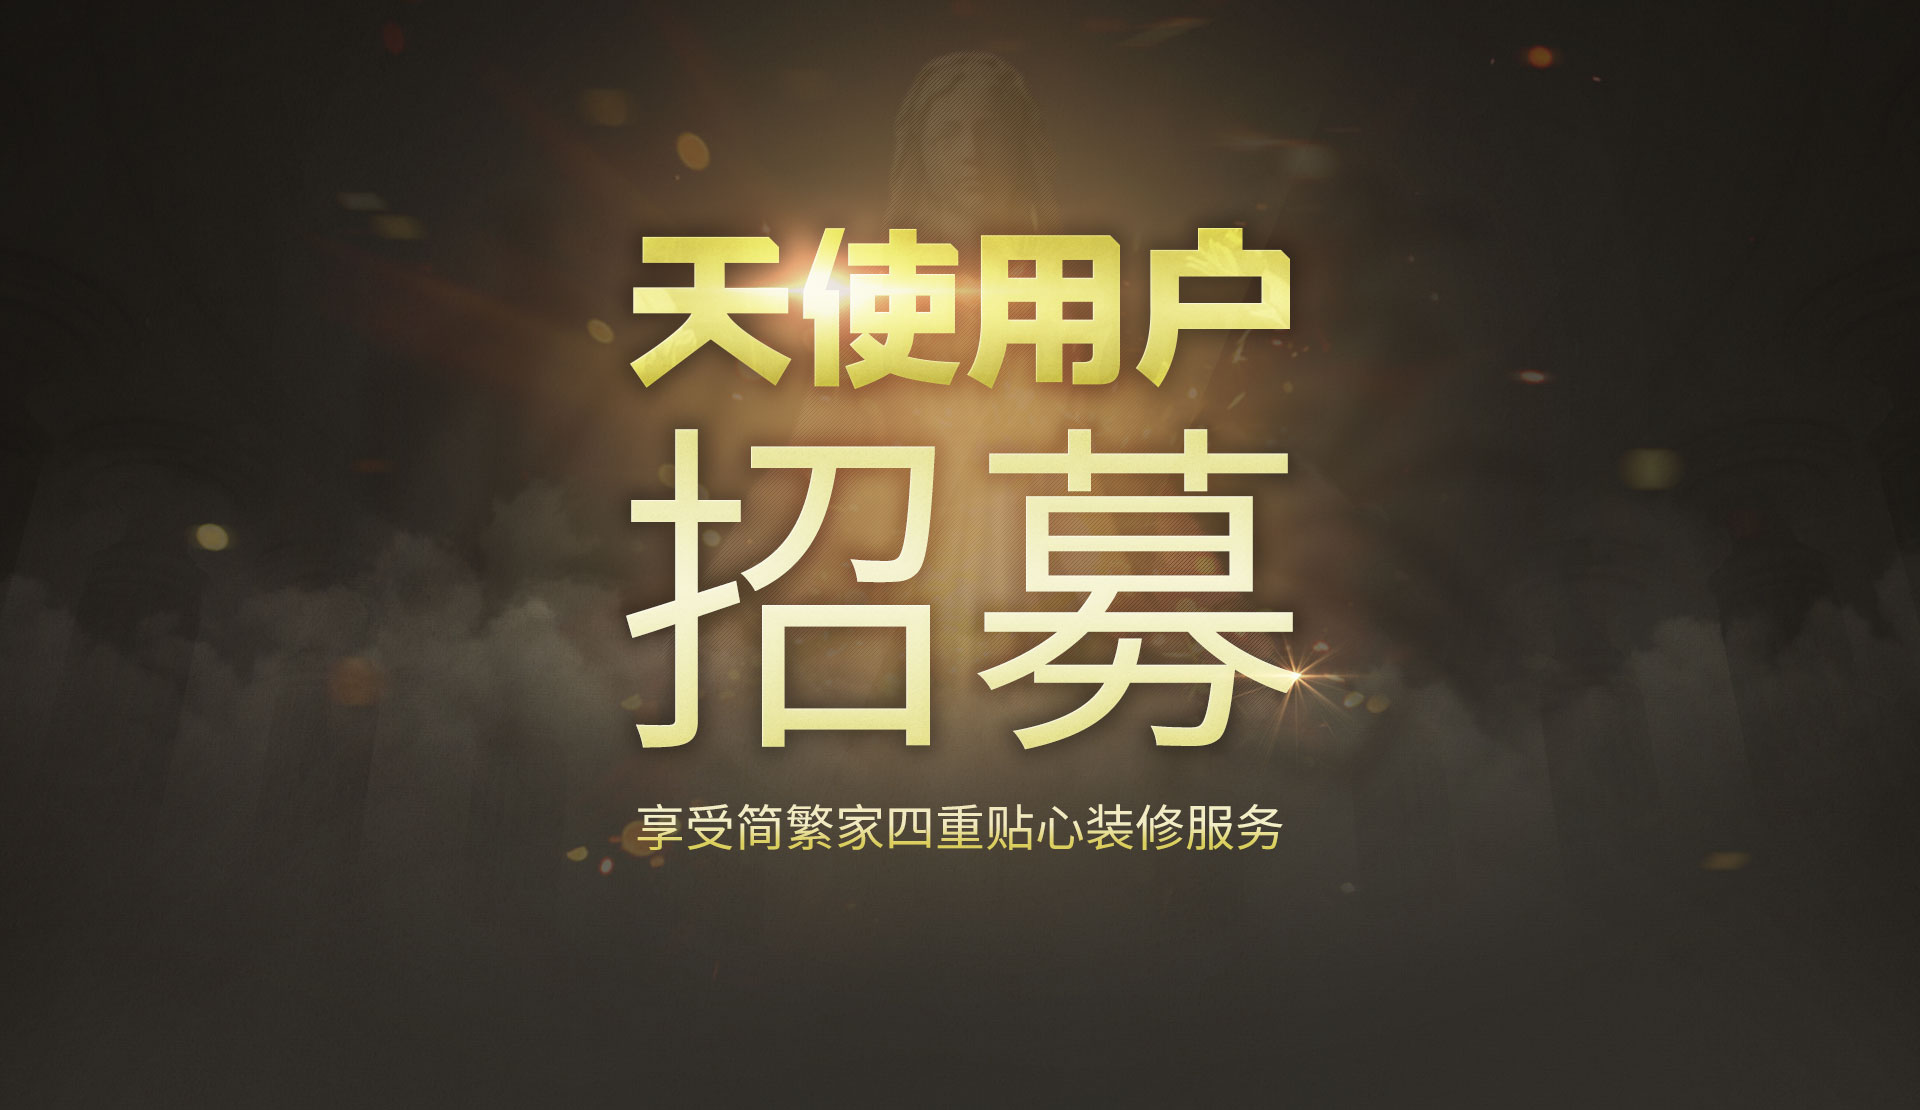
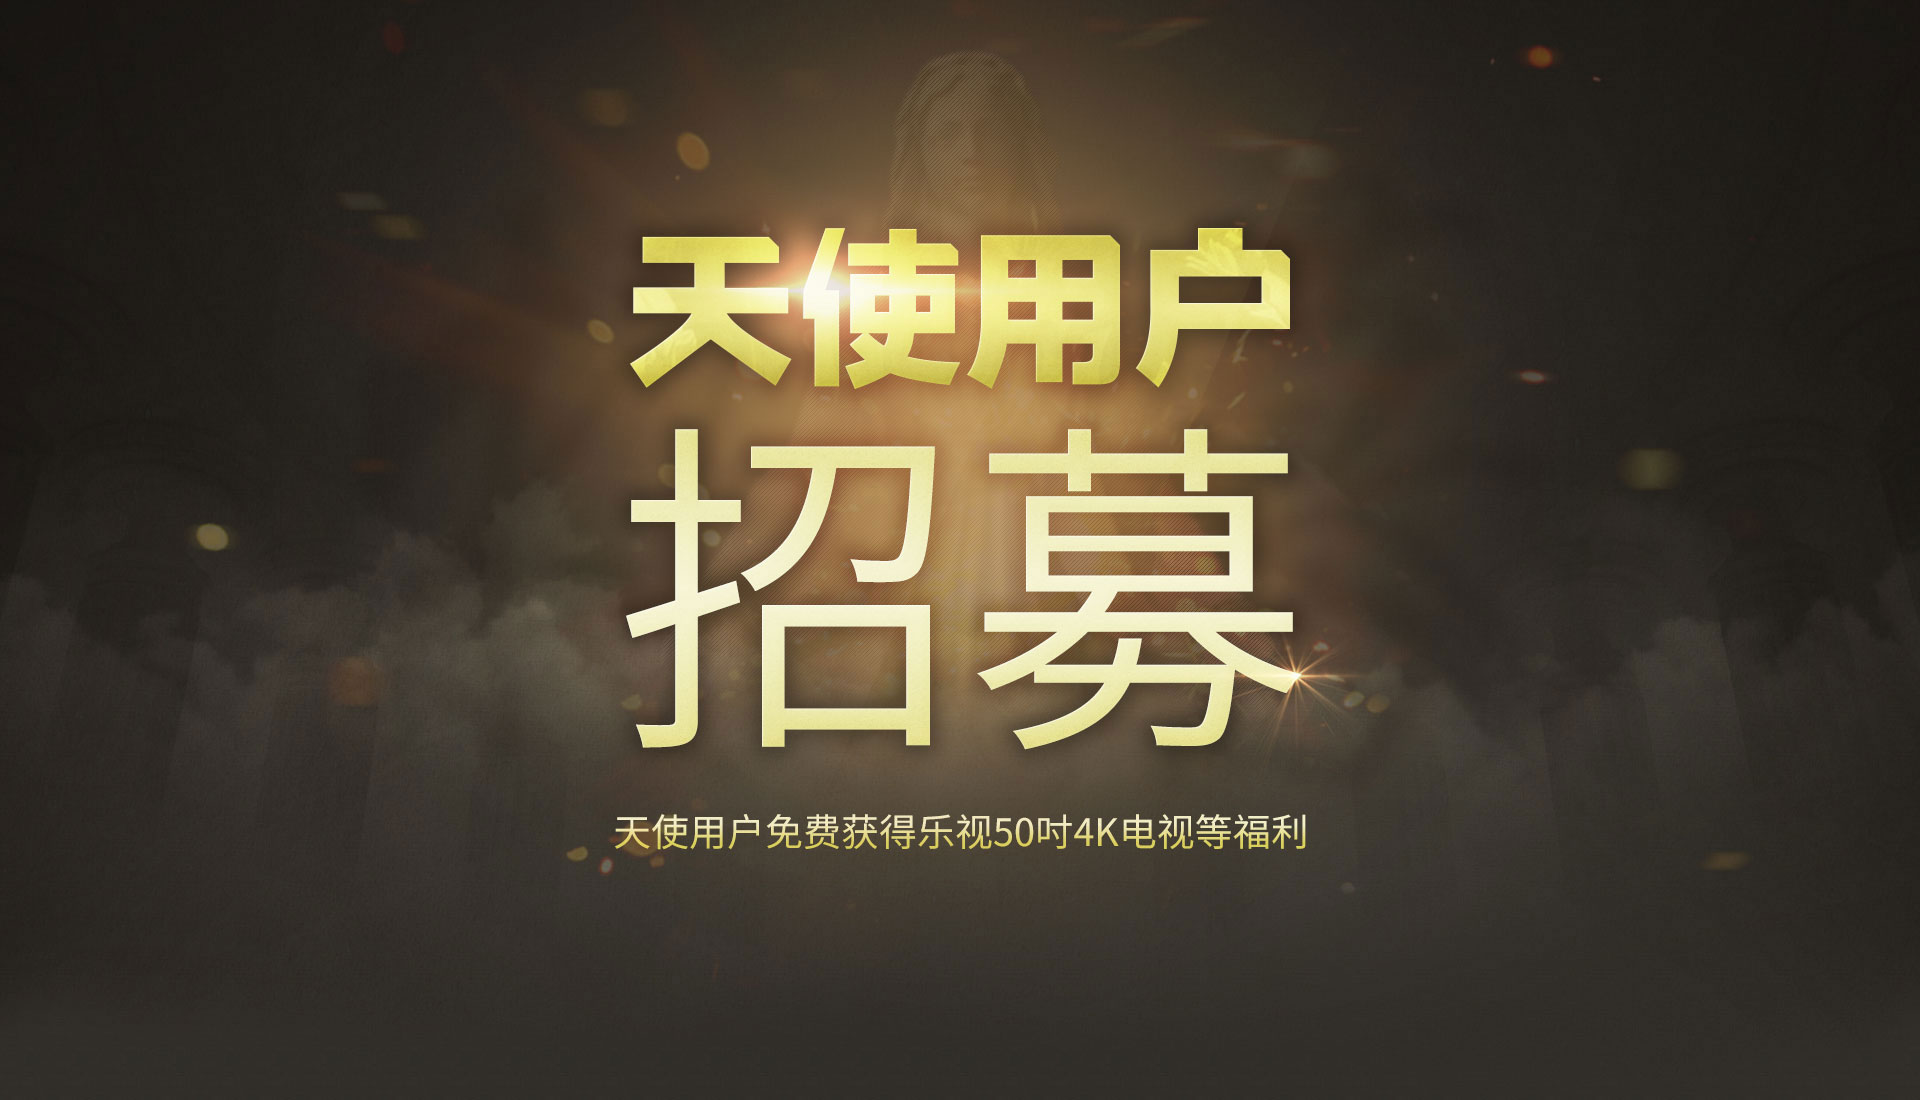
1203天使用户招募

diff --git a/public/zt/recruit/index.html b/public/zt/recruit/index.html
@@ -3,7 +3,7 @@
 <head>
 	<meta charset="UTF-8" />
 	<meta http-equiv="Content-Type" content="text/html; charset=utf-8"/>
-	<title>简繁家天使业主招募令 8000元福利免费送!!!</title>
+	<title>天使用户免费获得乐视50吋4K电视等福利!!!</title>
 	<meta http-equiv="X-UA-Compatible" content="IE=edge,chrome=1">
 	<meta name="keywords" content="武汉装修,装修流程,装修知识,装修效果图,家装施工监理,空气检测" />
 	<meta name="description" content="简繁家提供家装设计、新房装修、装修流程、软装设计、家装设计、室内装修、施工监理等服务和装修知识、装修风格、装修效果图、装修设计图等信息。" />
@@ -469,6 +469,23 @@
 			cursor: default;
 			background-color: #999;
 		}
+		.dianshi .img{
+			padding: 60px 0 30px;
+		}
+		.dianshi .img img{
+			position: relative;
+			left:50%;
+			margin-left: -350px;
+		}
+		.dianshi .txt{
+			width: 560px;
+			padding-left: 327px;
+
+		}
+		.dianshi .txt p{
+			text-align: left;
+			line-height: 34px;
+		}
     </style>
 </head>
 <body>
@@ -495,6 +512,19 @@
 			<li><span><i class="icon3"></i></span><p>第三方监理+APP全程监管</p></li>
 			<li><span><i class="icon4"></i></span><p>专项质保基金后顾无忧</p></li>
 		</ul>
+	</div>
+	<div class="g-wp section service dianshi">
+		<h2><span>你敢签，我就送！</span></h2>
+		<div class="img">
+			<img src="img/dianshi.png" height="481" width="670" alt="乐视50吋4K电视">
+		</div>
+		<div class="txt">
+			<p>活动时间：即日起到2015年12月31日</p>
+			<p>达成条件：签订装修合同并且支付首期款</p>
+			<p>获得福利：50英寸互联网4K超高清电视（乐视超3 X50）一台<br />
+	            &nbsp;&nbsp;&nbsp;&nbsp;&nbsp;&nbsp;&nbsp;&nbsp;&nbsp;&nbsp;&nbsp;&nbsp;&nbsp;&nbsp;&nbsp;&nbsp;&nbsp;以及四大贴心装修服务</p>
+		</div>
+		
 	</div>
 	<div class="g-wp section service">
 		<h2><span>四重专享服务</span></h2>
@@ -529,15 +559,6 @@
 	<div class="g-wp section btns">
 		<a href="javascript:;" id="btn"></a>
 		<div class="line"></div>
-	</div>
-	<div class="g-wp section share">
-		<h3>转发有奖</h3>
-		<div class="box f-cb">
-			<div class="pic f-fl">
-				<img src="img/erweima.jpg" height="136" width="136" alt="" />
-			</div>
-			<p class="txt f-fl">转发本活动页面到微信朋友圈或微博，并将截图回复给公众号“简繁家”，可以获得红包一个（1到5元随机派送）</p>
-		</div>
 	</div>
 	<div class="m-motai" id="j-motai">
 		<span class="close" id="j-close"><i class="iconfont">&#xe611;</i></span>

diff --git a/public/weixin/recruited/index.html b/public/weixin/recruited/index.html
@@ -34,29 +34,62 @@
 			position: relative;
 			text-align: center;
 			color: #fff;
-			margin-bottom: 4.219rem;
+			margin-bottom: 2rem;
 		}
 		header img{
 			width: 100%;
 		}
+		header section{
+
+		}
+		header section h3{
+			margin: 0 auto;
+			width: 9rem;
+			padding:0;
+			text-align: center;
+			font-size: 1rem;
+			color: #f2eb72;
+			font-weight: bold;
+			border: 2px solid #f2eb72;
+			line-height:1.755rem;
+		}
+		header section div{
+			width: 7.2383rem;
+			height: 5.2012rem;
+			background:url(dianshi.png) 0 0 no-repeat;
+			-webkit-transform: translate(50%, 0);
+			-ms-transform: translate(50%, 0);
+			-o-transform: translate(50%, 0);
+			transform: translate(50%, 0);
+			margin: 0.5636rem 0 0.5636rem -2.5rem;
+			-webkit-background-size: cover;
+			background-size: cover;
+		}
+		header section p{
+			padding-left: 1rem;
+			font-size: 0.401rem;
+			text-align: left;
+			color: #f2eb72;
+			margin-bottom: 0.2415rem;
+		}
 		header hgroup{
-			position: absolute;
-			left:0;
-			top: 8.91rem;
 			width: 100%;
+			padding-top: 1.2rem;
 		}
 		header h1{
 			margin: 0 auto;
 			width: 6.843rem;
 			padding:0 0.563rem;
 			font-size: 1rem;
+			color: #f2eb72;
 			font-weight: bold;
 			border: 2px solid #f2eb72;
 			line-height:1.755rem;
 		}
 		header h2{
-			font-size: 0.332rem;
+			font-size: 0.401rem;
 			line-height: 0.917rem;
+			color: #ece8a8;
 		}
 		main section{
 			position: relative;
@@ -228,6 +261,14 @@
 	<div id="page">
 		<header>
 			<img src="banner.jpg" alt="">
+			<section>
+				<h3>你敢签，我就送！</h3>
+				<div></div>
+				<p>活动时间：即日起到2015年12月31日</p>
+				<p>达成条件：签订装修合同并且支付首期款</p>
+				<p>获得福利：50英寸互联网4K超高清电视<br />
+					(乐视超3 X50)一台以及四大贴心装修服务</p>
+			</section>
 			<hgroup>
 				<h1>四重专享服务</h1>
 				<h2>征集对象：武汉7大城区内需要装修的业主</h2>
